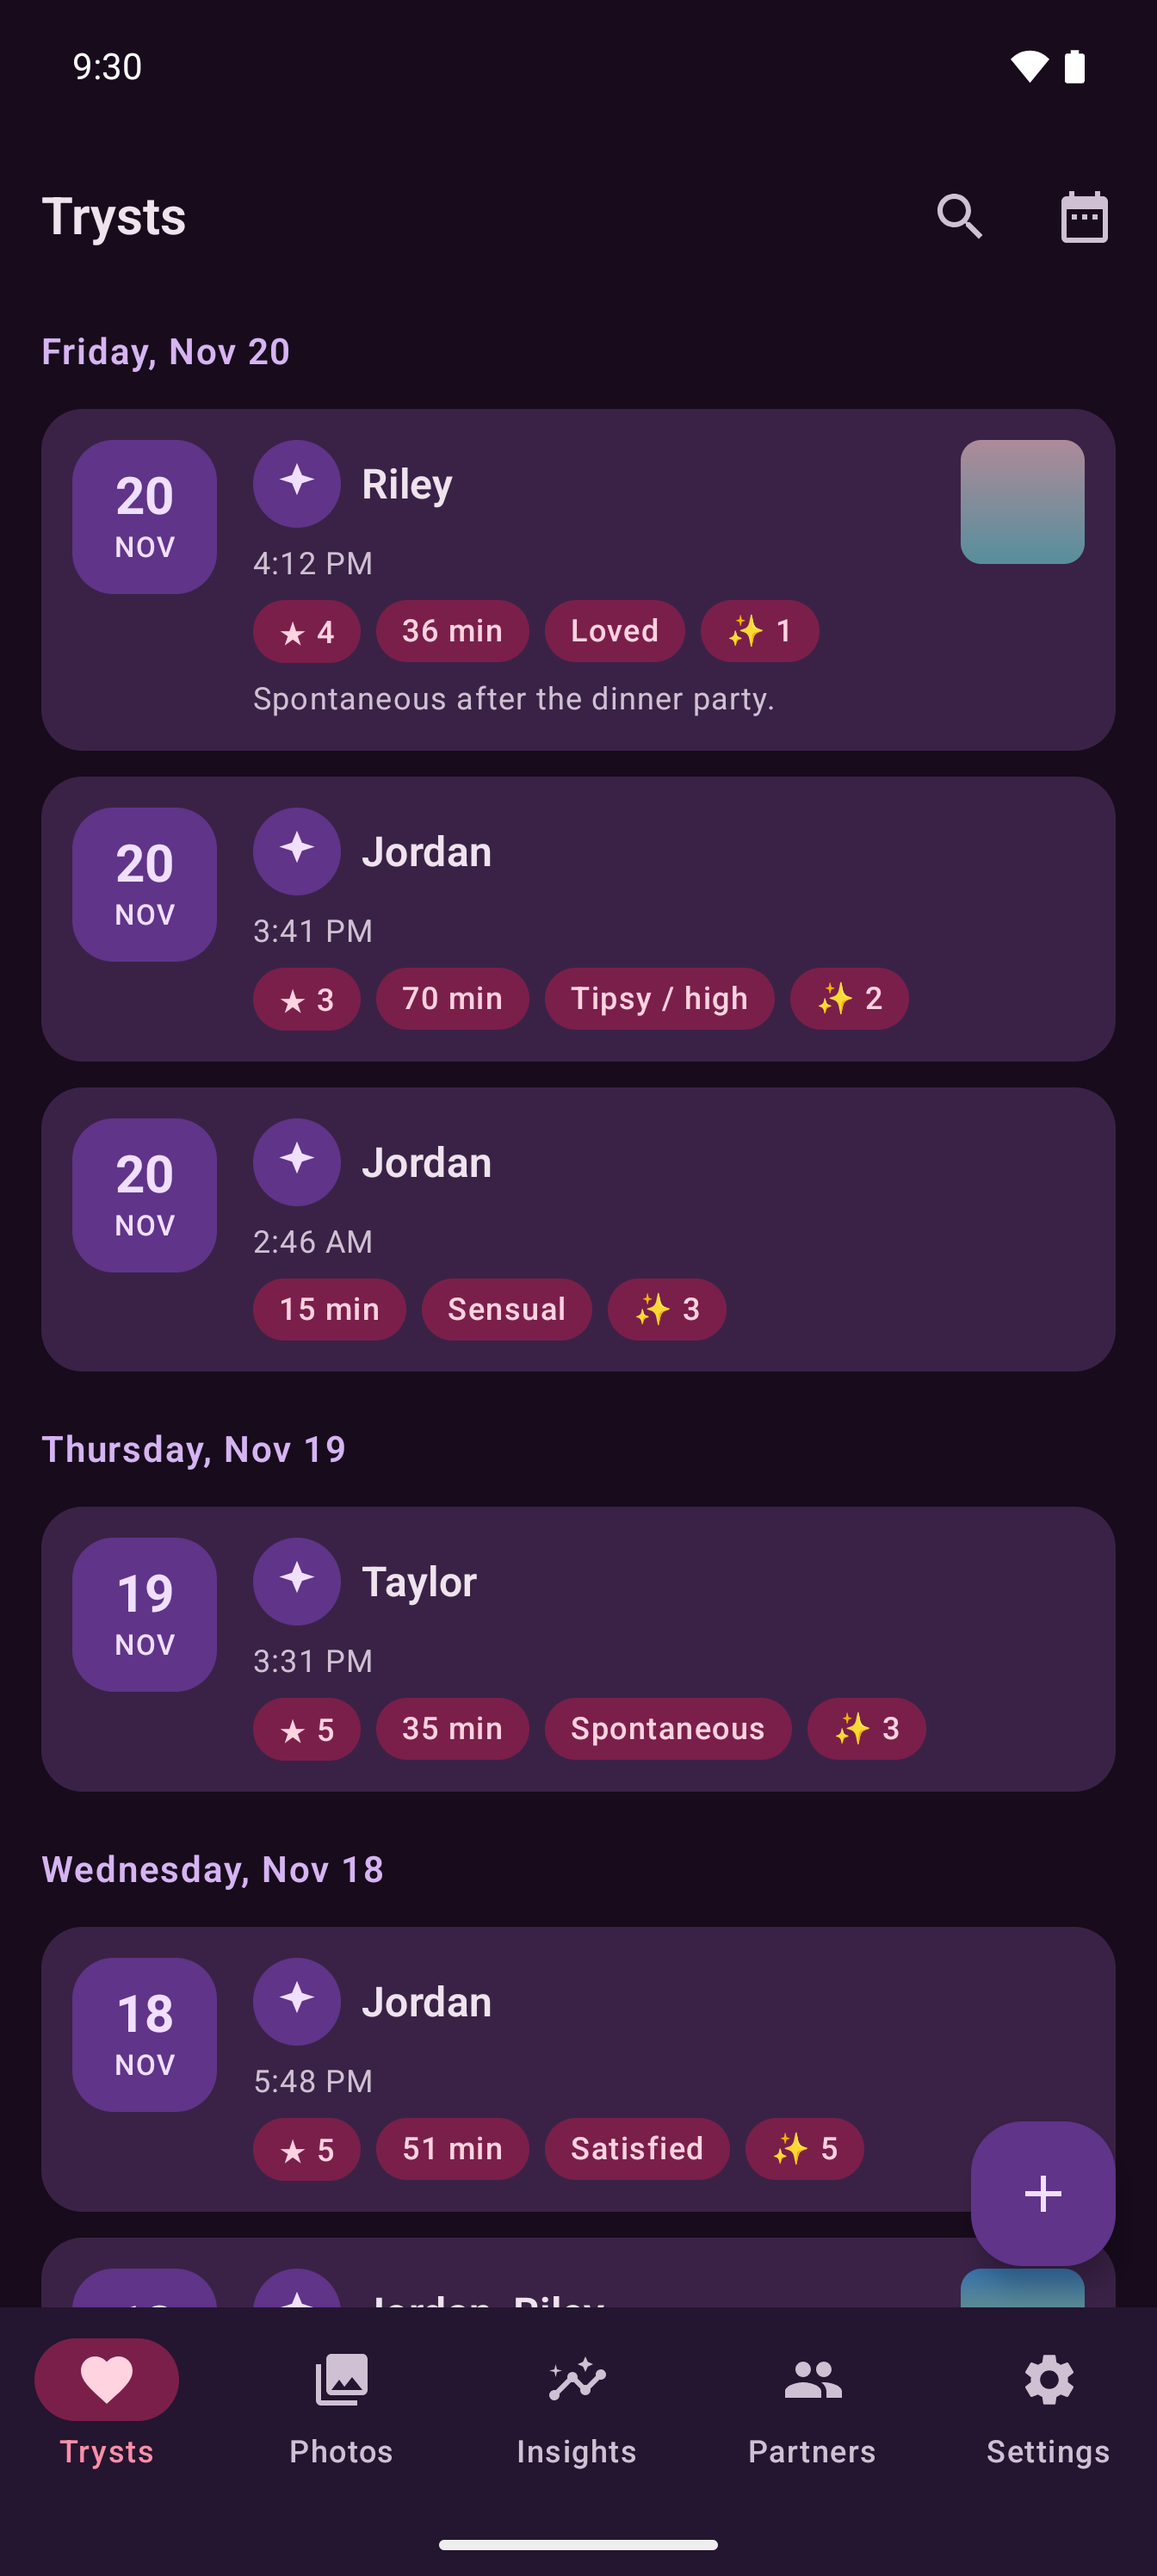
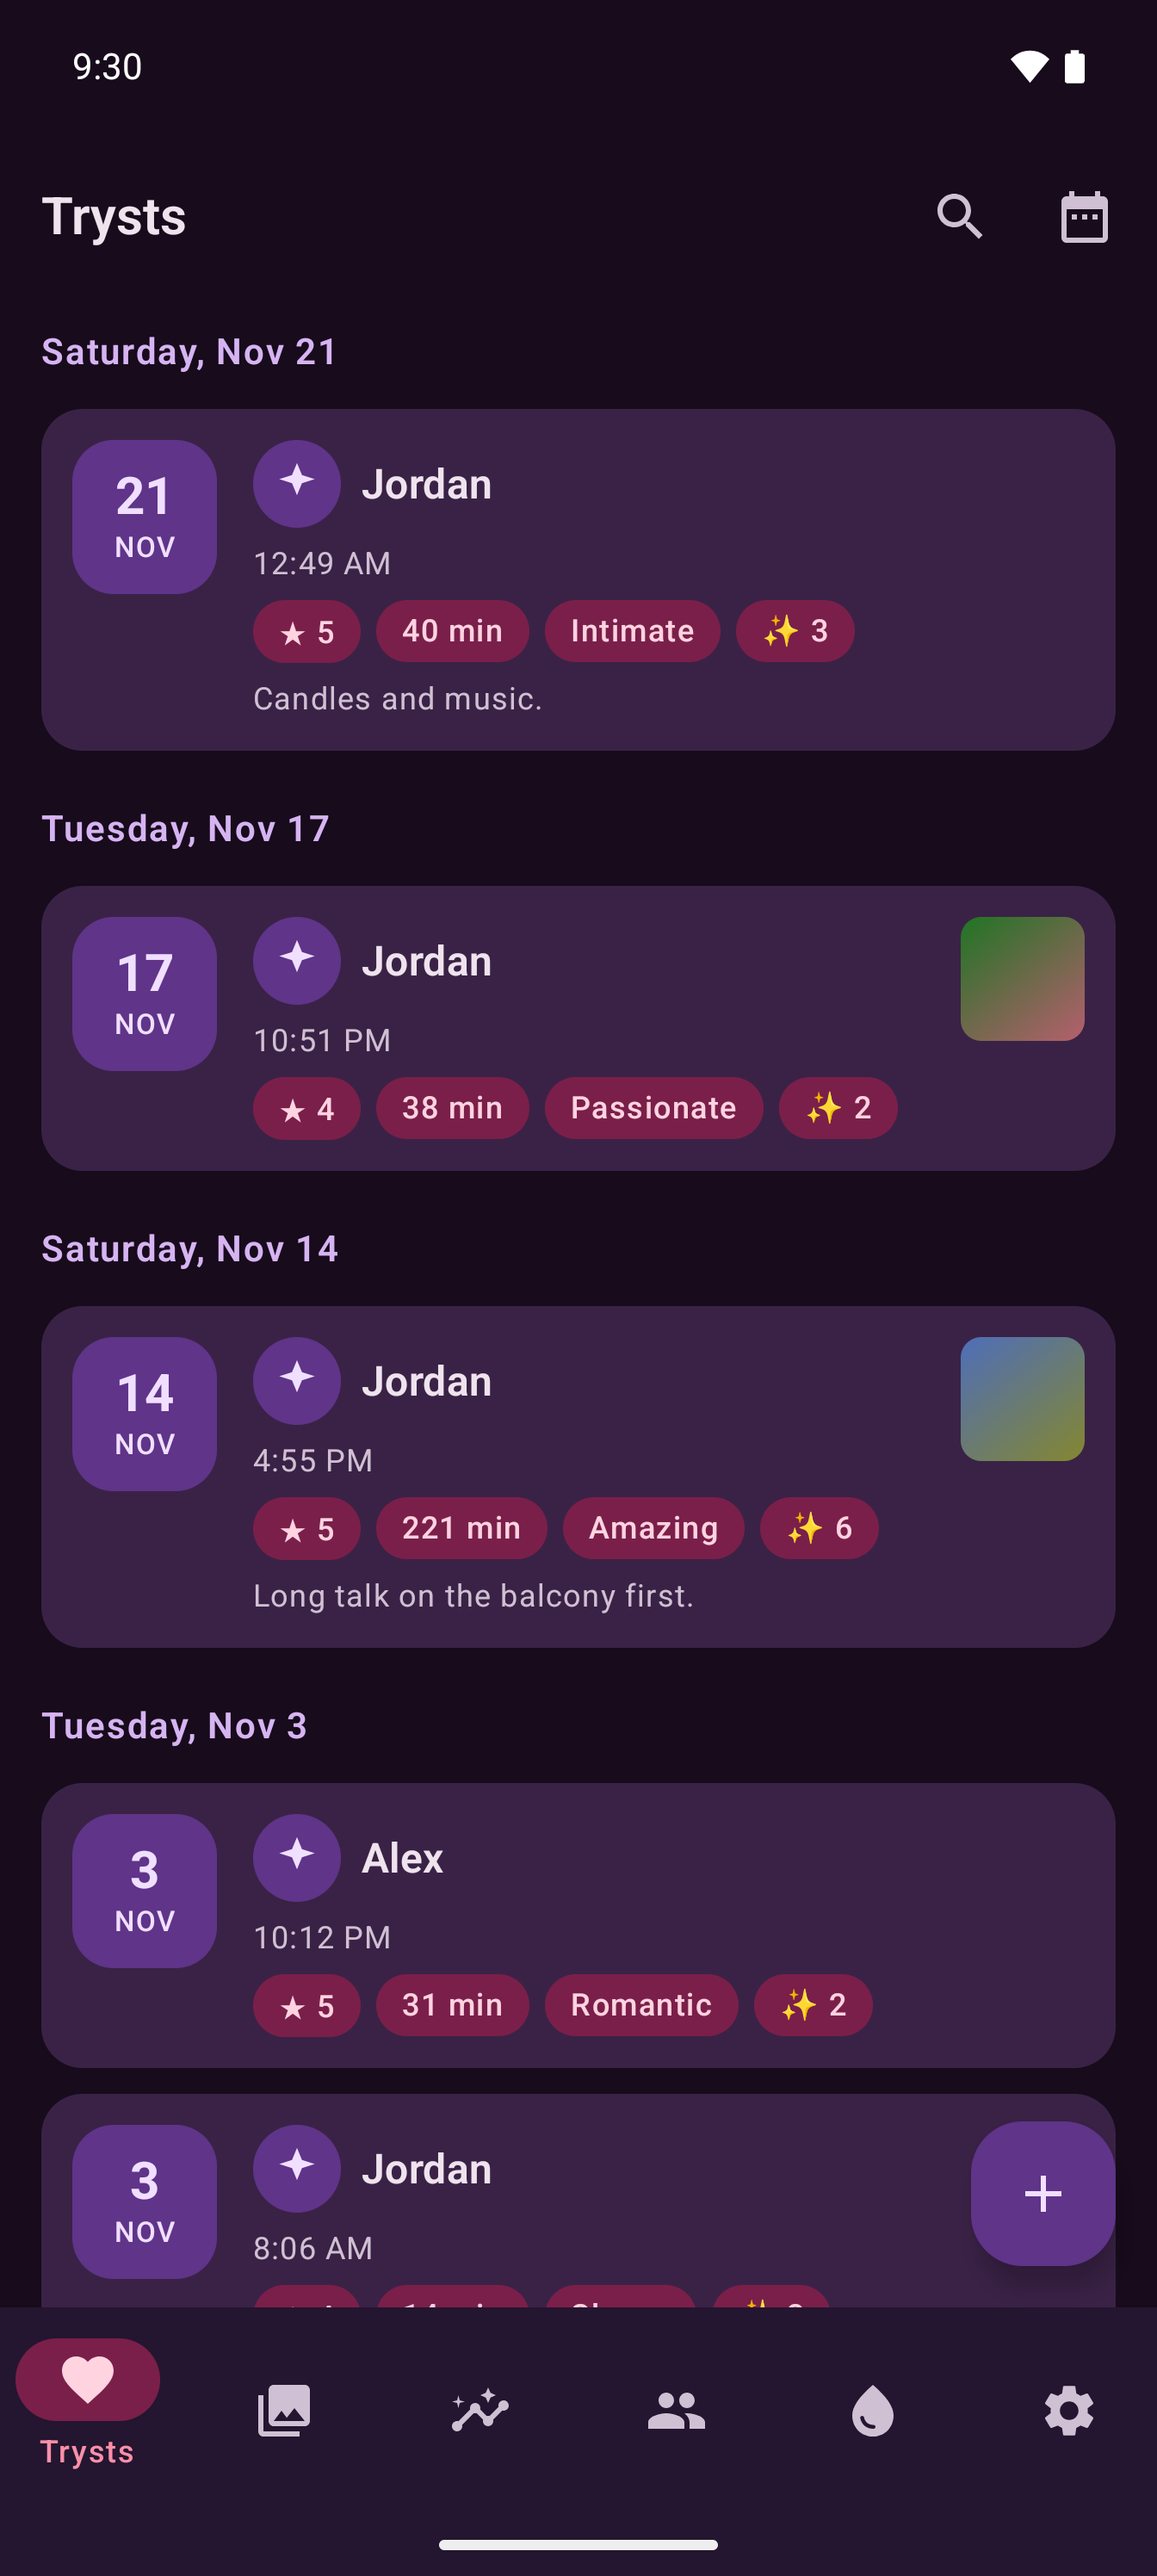
docs(store): refresh store screenshots from a store-safe dataset
Eleven shots replace the nine from v0.7.1: the same nine plus the
Insights Cycle section and the top of the tryst editor. Captured from
v0.7.7 on a store-safe dataset (an allow-list pass over the synthetic
data: neutral lists, one partner per tryst, no orgasm types, gentle
moods, places and partner types, neutral notes), so nothing explicit
is on screen. FLAG_SECURE was off only for the capture.

RELEASE.md: the recipe now calls for the store-safe dataset and notes
the force-stop needed when captures come back black. The 2026-11-28
sweep record marks the screenshots done.

diff --git a/docs/RELEASE.md b/docs/RELEASE.md
@@ -118,15 +118,19 @@ Notes:
 - Screenshots + store `icon.png` live under `fastlane/metadata/android/en-US/images/`.
   Capturing them needs the temporary FLAG_SECURE-off procedure from pre-release Pass 5. The
   set was pulled 2026-08-19 pending a design refresh (QOL-4), reshipped 2026-08-31 from a v0.5.2 build, and
-  refreshed 2026-11-25 from v0.7.1 (nine shots). The fresh `icon.png` shipped in v0.5.8 (T-heart on pink-to-purple
+  refreshed 2026-11-25 from v0.7.1 (nine shots), and again 2026-11-28 from v0.7.7 (eleven shots, adding the
+  Insights Cycle section and the tryst editor). The fresh `icon.png` shipped in v0.5.8 (T-heart on pink-to-purple
   gradient). A designer framing pass remains as STORE-1.
-- **Screenshot recipe (2026-11-25):** restore `samples/tryst-test-dataset.tryst` (see `tools/dataset/README.md`)
+- **Screenshot recipe (updated 2026-11-28):** restore a **store-safe dataset**, not the regular test data. It is
+  built by an allow-list pass over the synthetic data (neutral lists, notes, places, moods and partner types only;
+  one partner per tryst; no orgasm types), kept outside the repo. Restore it
   into a fresh emulator install with `FLAG_SECURE` temporarily off, turn on the system UI demo mode for a clean
   status bar (`adb shell settings put global sysui_demo_allowed 1`, then `am broadcast -a com.android.systemui.demo
   -e command enter`, `-e command clock -e hhmm 0930`, `-e command network -e wifi show -e level 4 -e fully true
   -e mobile hide`, `-e command notifications -e visible false`), capture with `adb exec-out screencap -p`, and keep
   every shot all-ages (issue #3): no explicit catalog labels on screen. Exit demo mode and restore `FLAG_SECURE`
-  before committing.
+  before committing. If captures come back black after turning `FLAG_SECURE` off, force-stop the app
+  (`adb shell am force-stop app.tryst`) so the old window goes away, then start it again.
 
 ## Ongoing releases (post-first-submission)
 

diff --git a/docs/audits/2026-11-28-doc-sweep.md b/docs/audits/2026-11-28-doc-sweep.md
@@ -33,8 +33,17 @@ release by release), `THIRD_PARTY_NOTICES.md` (no dependency changes), `tools/da
 note is still true of the committed sample), `SETUP_WINDOWS.md`, `AUDIT_PLAN.md`, `PRERELEASE_PROMPT_PACK.md`,
 `ROADMAP_VIDEO.md`. Every relative link in the tracked Markdown resolves.
 
+## Store screenshots
+
+Eleven shots replace the nine from 2026-11-25: the same nine plus `10_insights_cycle` (the Cycle section, Jordan
+picked) and `11_editor` (the top of the tryst editor, which could not be shot last time). They were taken from a new
+**store-safe dataset**, not the regular test data. An allow-list pass over the synthetic data, kept outside the
+repo, keeps only neutral lists (Kissing, Cuddling, Making out, Massage; gentle occasions; the two shipped finish
+locations), drops positions, kinks, toys and orgasm types, keeps one partner per tryst, limits places, moods and
+partner types to gentle ones, and replaces every note. Every screen's text was read before a shot was kept.
+Captured on the emulator with `FLAG_SECURE` off (restored and checked on the running window afterwards) and a
+demo-mode status bar. `09_settings` came out identical to the old one.
+
 ## Left open
 
-- **Store screenshots** are still the nine shots from v0.7.1 (2026-11-25). They show nothing wrong, but miss the
-  Insights Cycle section and the 0.7.7 editor. A refresh needs `FLAG_SECURE` turned off on the emulator for the
-  capture, as last time.
+- Nothing.
